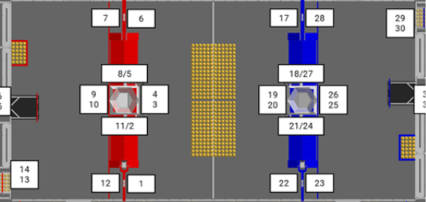
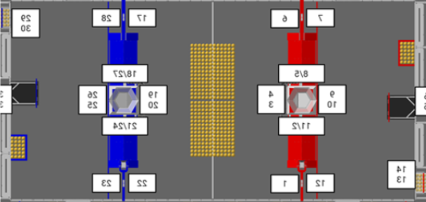
update

diff --git a/src/main/kotlin/com/obsidianscout/auth/AuthService.kt b/src/main/kotlin/com/obsidianscout/auth/AuthService.kt
@@ -233,7 +233,7 @@ object AuthService {
                 it[Users.role] = role.name
                 it[Users.createdAt] = Instant.now()
                 it[Users.lastLogin] = Instant.now()
-                it[Users.email] = email?.takeIf { it.isNotBlank() }
+                it[Users.email] = email?.trim()?.lowercase()?.takeIf { it.isNotBlank() }
             }
 
             val existingTeamSettings = AppSettings
@@ -385,7 +385,7 @@ object AuthService {
                 it[Users.passwordHash] = hash
                 it[Users.role] = role.name
                 it[Users.createdAt] = Instant.now()
-                it[Users.email] = email?.takeIf { it.isNotBlank() }
+                it[Users.email] = email?.trim()?.lowercase()?.takeIf { it.isNotBlank() }
             }
             val row = Users.selectAll().where { Users.id eq id }.first()
             rowToUser(row)
@@ -497,7 +497,7 @@ object AuthService {
                 if (!newUsername.isNullOrBlank()) stmt[username] = newUsername.trim()
                 if (newHash != null)             stmt[passwordHash] = newHash
                 if (newRole != null)             stmt[role] = newRole.name
-                if (newEmail != null)            stmt[email] = newEmail.takeIf { it.isNotBlank() }
+                if (newEmail != null)            stmt[email] = newEmail.trim().lowercase().takeIf { it.isNotBlank() }
                 if (newNotificationPreference != null) stmt[notificationPreference] = newNotificationPreference
                 if (newNodeAlertsEnabled != null) stmt[nodeAlertsEnabled] = newNodeAlertsEnabled
                 if (newBugReportPreference != null) stmt[bugReportPreference] = newBugReportPreference

diff --git a/src/main/kotlin/com/obsidianscout/routes/Routes.kt b/src/main/kotlin/com/obsidianscout/routes/Routes.kt
@@ -532,7 +532,7 @@ fun Application.configureRoutes() {
                     val isEmailRecovery = !request.email.isNullOrBlank()
 
                     if (isEmailRecovery) {
-                        val recoverEmail = request.email!!.trim()
+                        val recoverEmail = request.email!!.trim().lowercase()
                         val matchedUsers = com.obsidianscout.db.readTransaction {
                             com.obsidianscout.db.Users
                                 .selectAll().where { com.obsidianscout.db.Users.email.lowerCase() eq recoverEmail.lowercase() }
